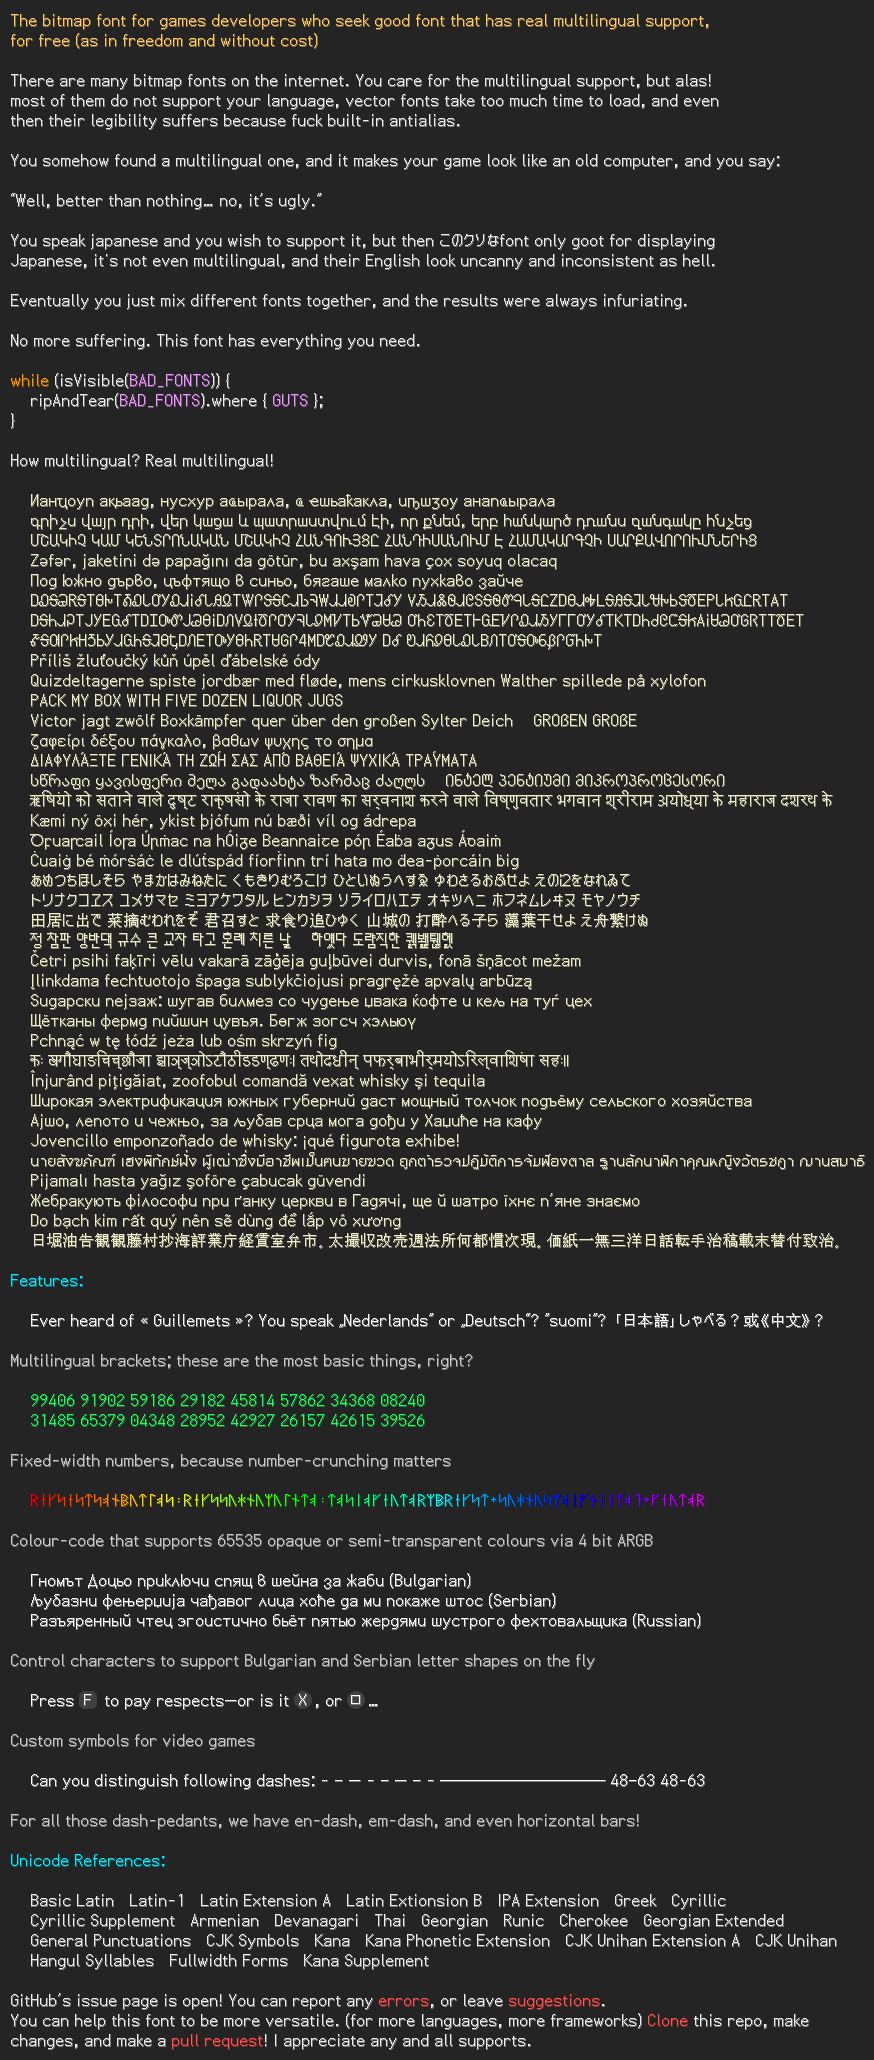
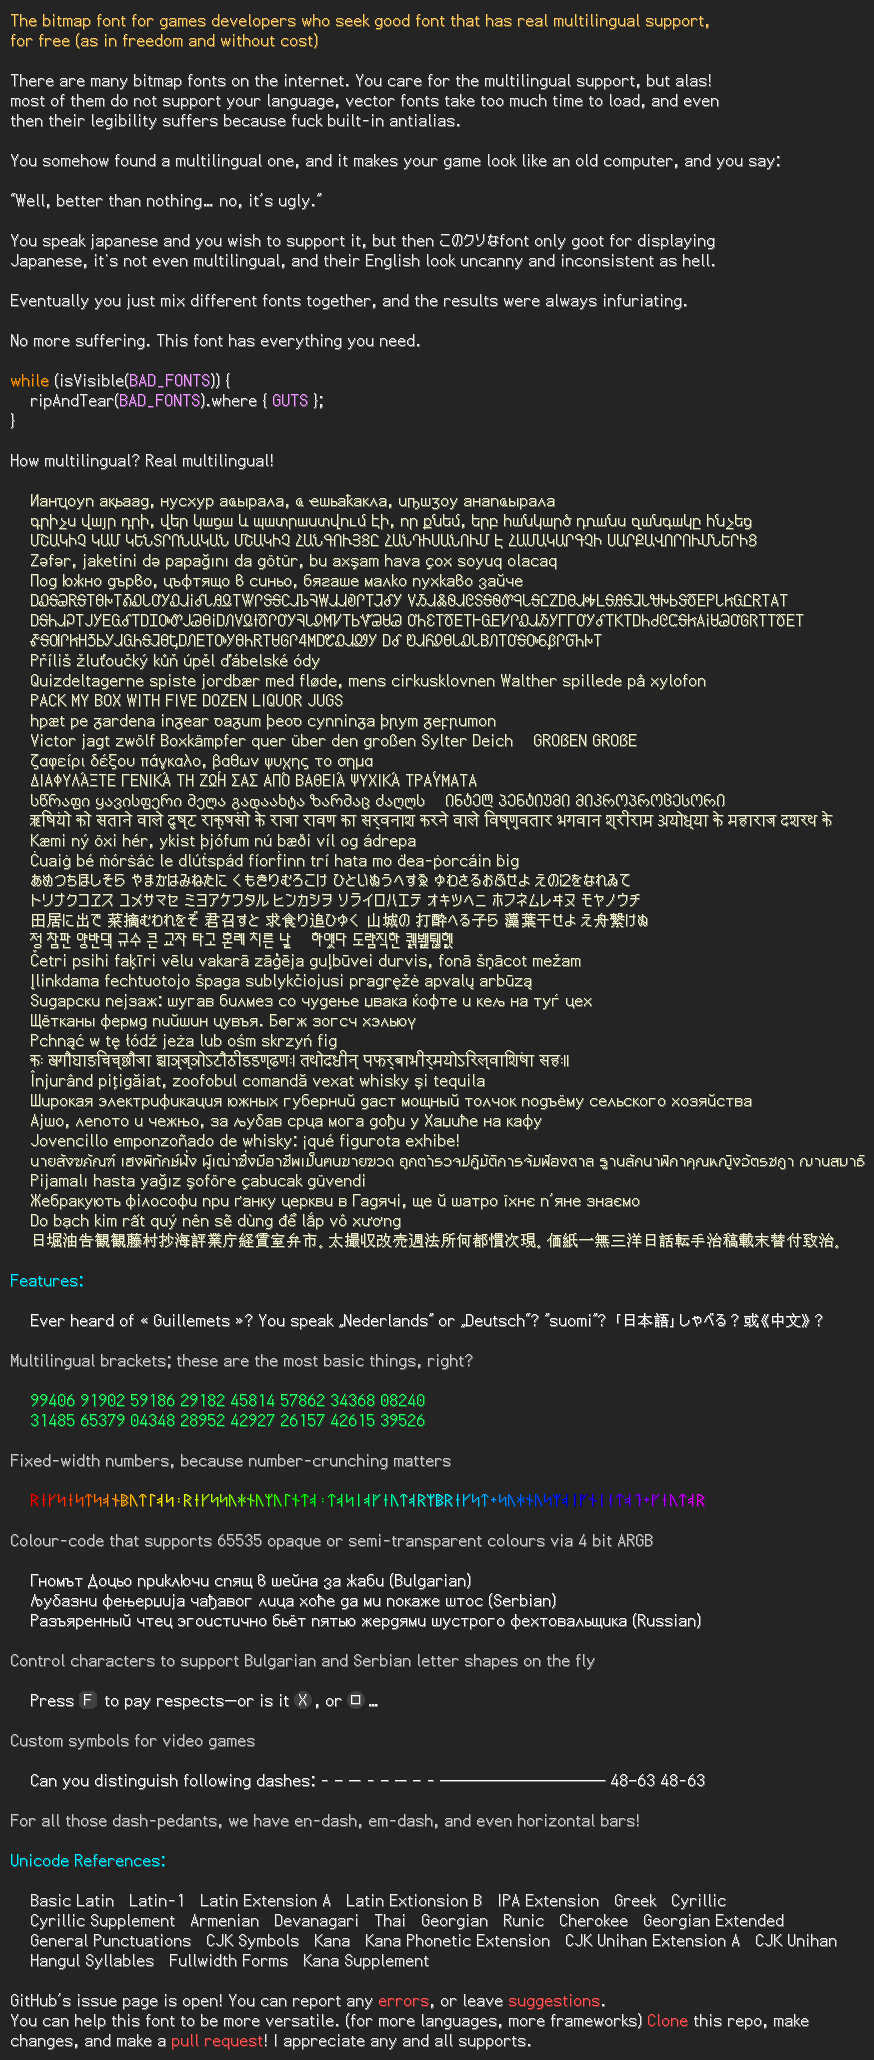
made demo program actually run

Changed region(s): [[0.0309, 0.3417, 0.9577, 0.435]]

diff --git a/FontTestGDX/src/FontTestGDX.kt b/FontTestGDX/src/FontTestGDX.kt
@@ -23,10 +23,10 @@ class FontTestGDX : Game() {
     lateinit var camera: OrthographicCamera
 
     override fun create() {
-        font = GameFontBase("./assets", flipY = false, errorOnUnknownChar = true) // must test for two flipY cases
+        font = GameFontBase("./assets", flipY = false, errorOnUnknownChar = false) // must test for two flipY cases
 
-        val inTextFile = Gdx.files.internal("./FontTestGDX/demotext.txt")
-        val reader = inTextFile.reader()
+        val inTextFile = Gdx.files.internal("./demotext.txt")
+        val reader = inTextFile.reader("UTF-8")
         inputText = reader.readLines()
         reader.close()
 

diff --git a/src/net/torvald/terrarumsansbitmap/gdx/GameFontBase.kt b/src/net/torvald/terrarumsansbitmap/gdx/GameFontBase.kt
@@ -939,6 +939,9 @@ class GameFontBase(fontDir: String, val noShadow: Boolean = false, val flipY: Bo
         // manually add width of one orphan insular letter
         // WARNING: glyphs in 0xA770..0xA778 has invalid data, further care is required
         glyphProps[0x1D79] = GlyphProps(9, 0)
+
+
+        glyphProps[0xFFFD] = nullProp
     }
 
     private val glyphLayout = GlyphLayout()
